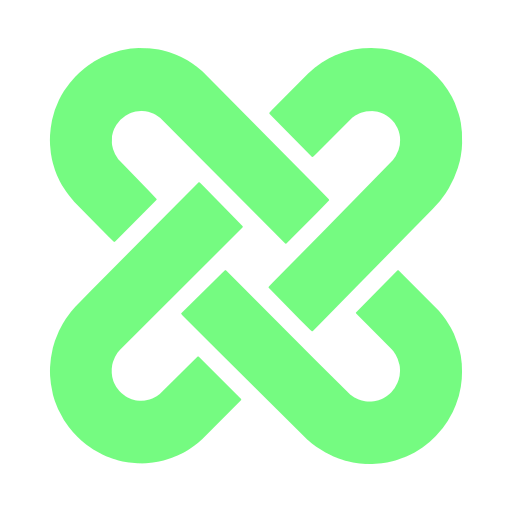
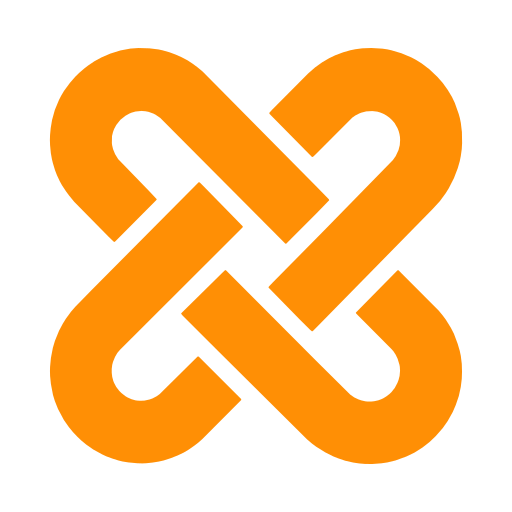
Apply current orange theme to the neutral CogineX mark

diff --git a/plugins/coginex/assets/README.md b/plugins/coginex/assets/README.md
@@ -1,16 +1,22 @@
 # CogineX icon
 
-`icon.png` is an unchanged copy of CogineX's 512 × 512 transparent green X-knot
-mark, color `#75FB81`.
+`mark.svg` preserves CogineX's theme-neutral X-knot geometry with
+`fill="currentColor"`. `icon.png` renders that mark at 512 × 512 with a
+transparent background and the current static brand orange, `#FF8F05`.
 
-Source: [`cogine-ai/CogineX-mono`, `apps/web/public/logo512.png`](https://github.com/cogine-ai/CogineX-mono/blob/0534fca901bd340c512c9f1078e4cc39c2452b3b/apps/web/public/logo512.png),
-last changed in `0534fca901bd340c512c9f1078e4cc39c2452b3b`.
-The current web application uses the corresponding geometry in
-[`apps/web/src/components/icon/coginex-x.svg`](https://github.com/cogine-ai/CogineX-mono/blob/0534fca901bd340c512c9f1078e4cc39c2452b3b/apps/web/src/components/icon/coginex-x.svg).
+Shape source: [`apps/web/src/components/icon/coginex-x.svg`](https://github.com/cogine-ai/CogineX-mono/blob/0534fca901bd340c512c9f1078e4cc39c2452b3b/apps/web/src/components/icon/coginex-x.svg),
+copied unchanged from `0534fca901bd340c512c9f1078e4cc39c2452b3b`.
+Palette source: [`apps/docs/docs.json`, `colors`](https://github.com/cogine-ai/CogineX-mono/blob/75cf35c4c95112b22f5e30b2ae129c6f465a5a67/apps/docs/docs.json),
+which declares `#ff8f05` for primary, light and dark branding. The web app's
+light/dark accent tokens can vary; the packaged icon uses this fixed orange.
+
+To reproduce the PNG with `sharp`, read `mark.svg`, replace its
+`fill="currentColor"` with `fill="#FF8F05"`, resize to 512 × 512 and write PNG.
 
 The inspected upstream `apps/docs/favicon.svg`, `apps/docs/logo/{light,dark}.svg`,
 and `apps/web/tauri/icon.png` retain the old Macro M-shaped mark. They are not
-the source of this plugin icon.
+the source of this plugin icon. This finding concerns the M-shaped geometry,
+not the orange theme color.
 
 Codex references this PNG through `interface.logo`, `logoDark`, and
 `composerIcon`. Claude's `icon` field supplies directory listing metadata;

diff --git a/CHANGELOG.md b/CHANGELOG.md
@@ -2,9 +2,10 @@
 
 ## CogineX 0.2.1 candidate — 2026-10-30
 
-- Use CogineX's existing green X-knot icon for the Codex listing and composer,
+- Use CogineX's X-knot icon in the current orange theme for the Codex listing and composer,
   with the same PNG declared for the Claude plugin directory listing.
-- Preserve the original 512px transparent brand asset and record its source.
+- Preserve the theme-neutral SVG geometry, render a 512px transparent PNG in
+  the existing brand orange, and record the shape and palette sources.
 
 ## CogineX 0.2.0 candidate — 2026-10-30
 
